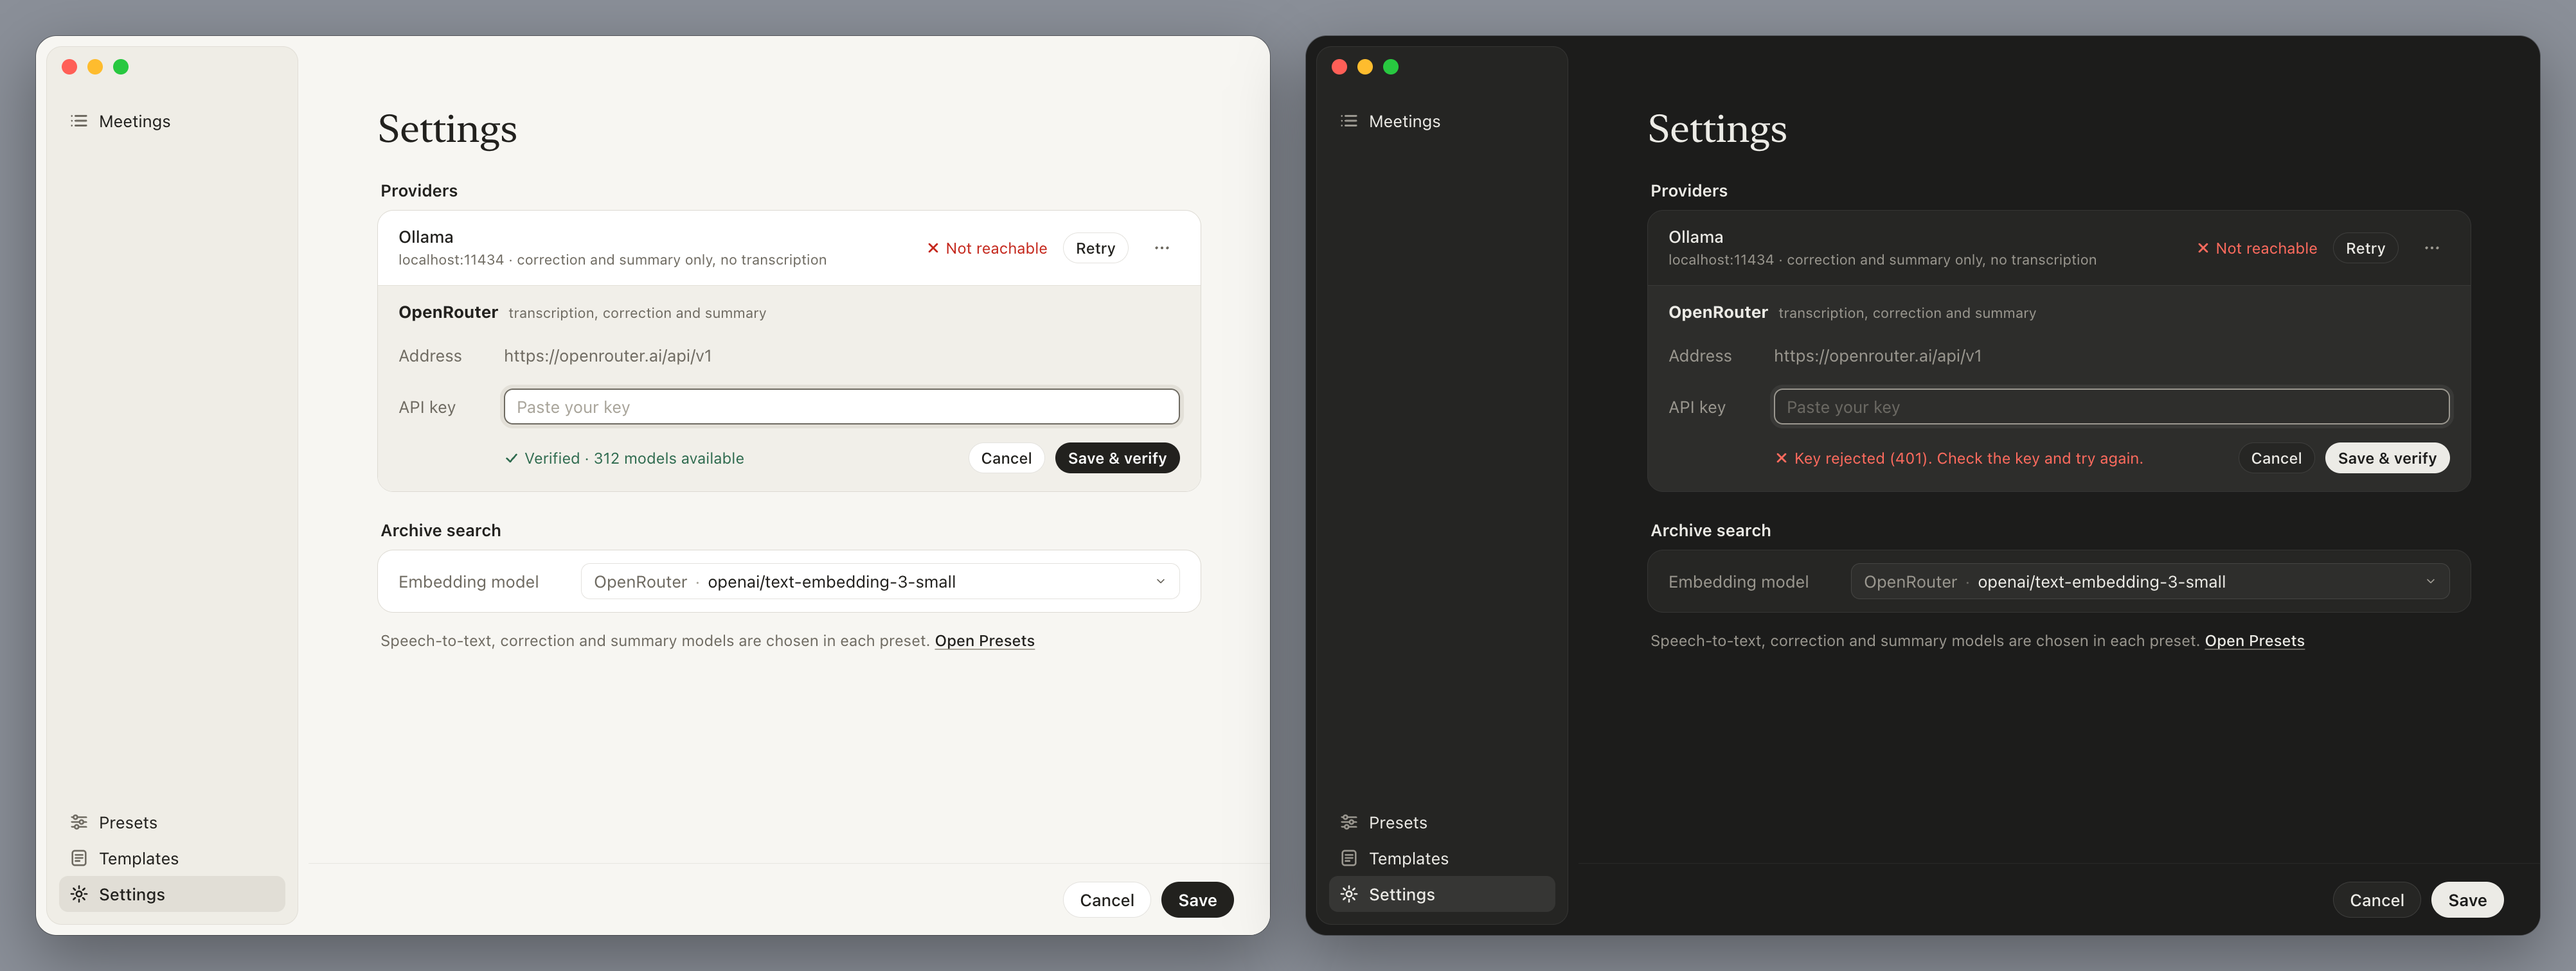
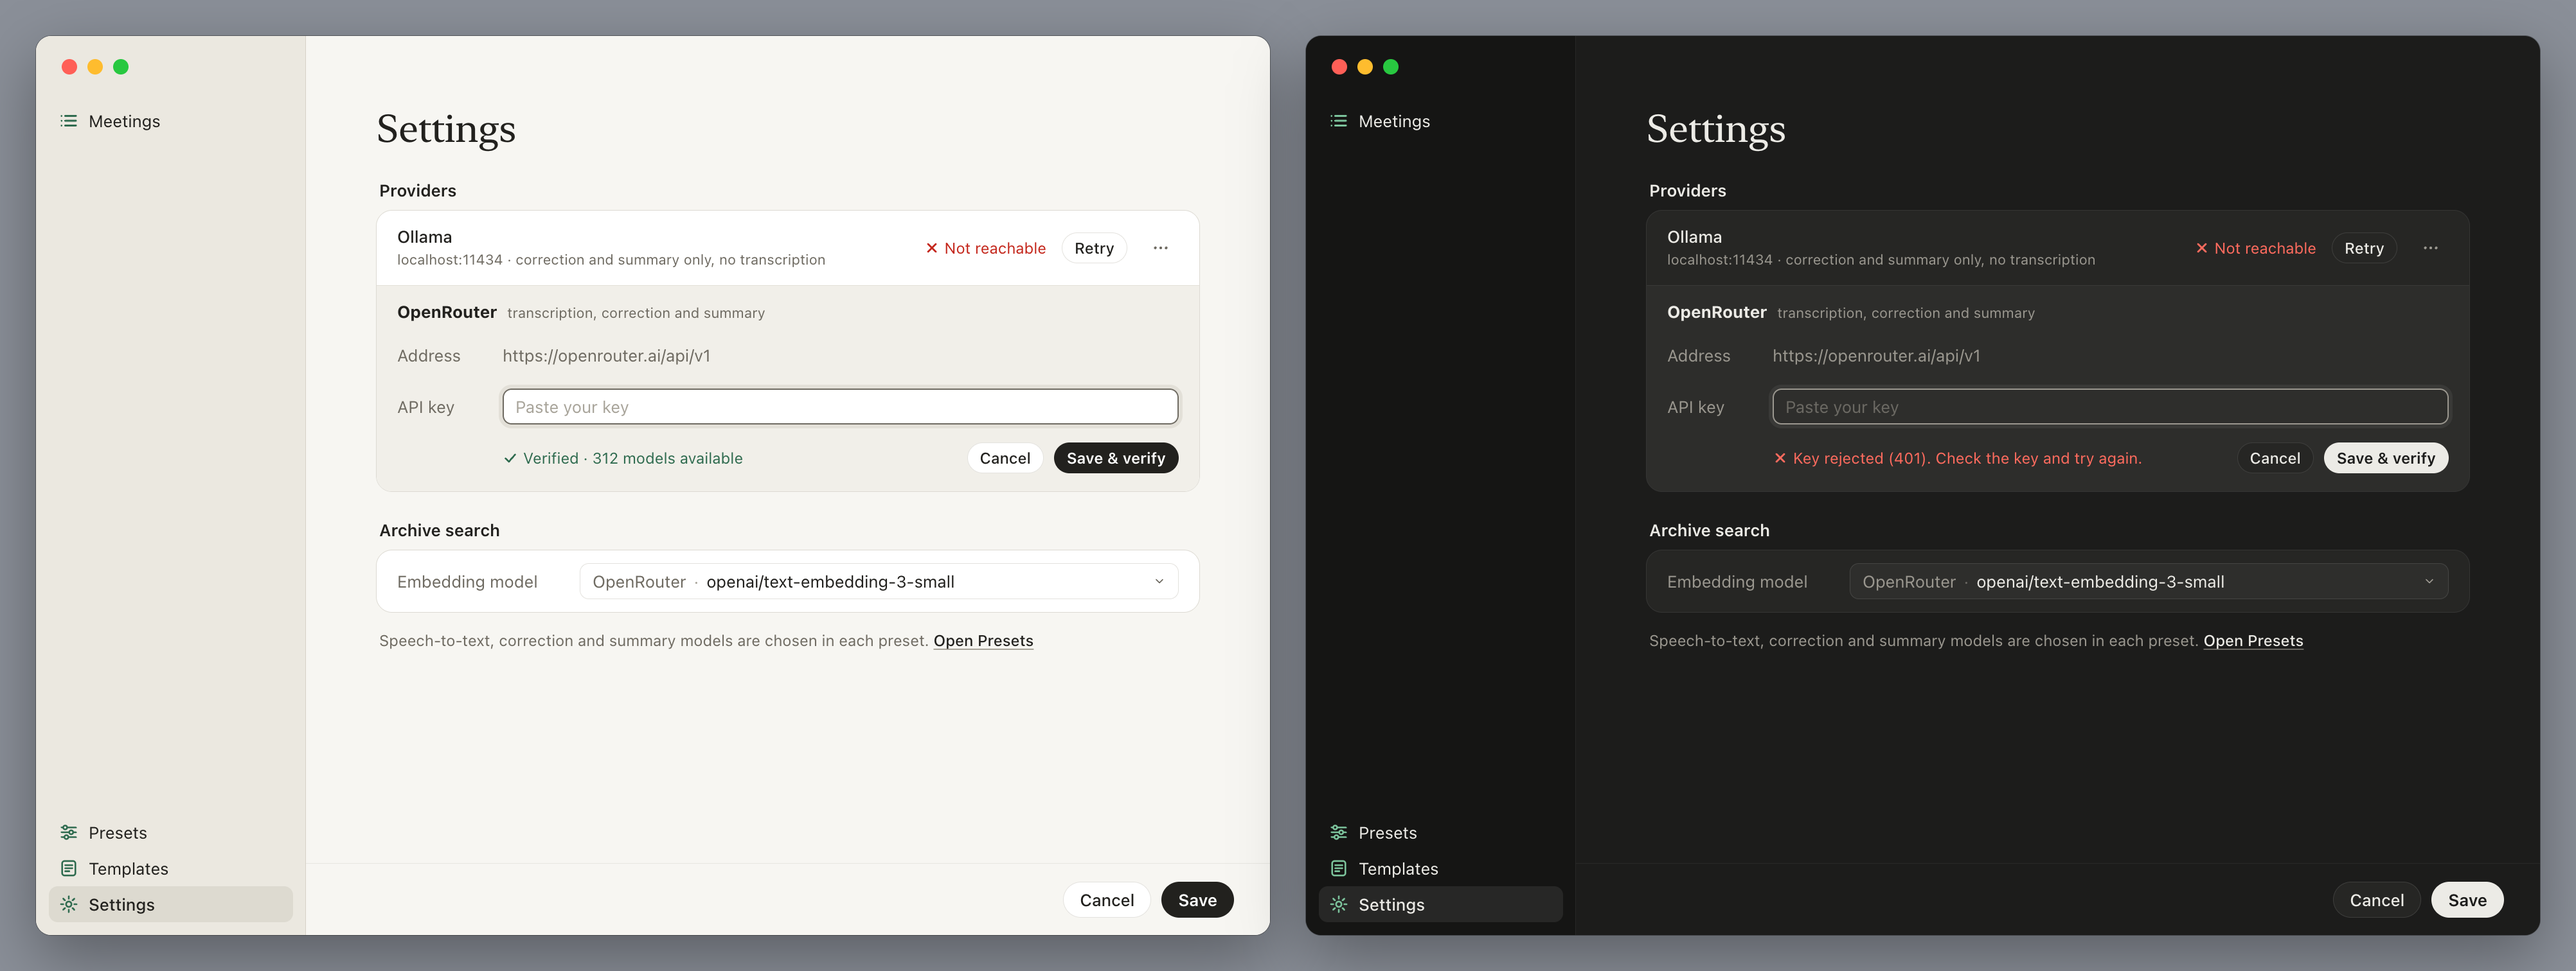
Design §11: makiety B na sidebarze macOS 27 (przy krawędzi), §11.8 research trendów UX macOS/Windows 2026–2027

diff --git a/docs/design/makiety/ekrany-b.html b/docs/design/makiety/ekrany-b.html
@@ -12,30 +12,30 @@
 body { font: 13px/16px system-ui; background: #8a8f98; padding: 28px; display: flex; gap: 28px; -webkit-font-smoothing: antialiased; }
 
 /* ---------- tokeny §11 ---------- */
-.light { --bg:#f7f6f2; --side:rgba(238,236,229,.92); --sideEdge:rgba(60,50,20,.08); --sel:rgba(60,50,20,.08);
+.light { --bg:#f7f6f2; --side:#ebe8e0; --sideEdge:rgba(60,50,20,.12); --sel:rgba(60,50,20,.08);
   --card:#ffffff; --sunk:#f1efe9; --line:rgba(60,50,20,.14); --line2:rgba(60,50,20,.08);
   --text:#22211e; --text2:#6f6b62; --text3:#a8a49a; --primary:#22211e; --onPrimary:#ffffff;
   --accent:#2f6b4f; --rec:#c4271c; --warn:#8a5a00; --glass:rgba(250,249,246,.74); --glassEdge:rgba(60,50,20,.16); }
-.dark { --bg:#1c1c1b; --side:rgba(38,38,36,.92); --sideEdge:rgba(255,255,255,.07); --sel:rgba(255,255,255,.08);
+.dark { --bg:#1c1c1b; --side:#151514; --sideEdge:rgba(255,255,255,.08); --sel:rgba(255,255,255,.08);
   --card:#262624; --sunk:#2e2e2c; --line:rgba(255,255,255,.11); --line2:rgba(255,255,255,.06);
   --text:#ecebe6; --text2:#9a978f; --text3:#6b6963; --primary:#ecebe6; --onPrimary:#1c1c1b;
   --accent:#7cc39c; --rec:#ff6b5e; --warn:#e0b050; --glass:rgba(36,36,34,.72); --glassEdge:rgba(255,255,255,.12); }
 
 /* ---------- okno i sidebar (systemowe) ---------- */
-.win { width: 960px; height: 700px; border-radius: 16px; overflow: hidden; position: relative; flex: none;
+.win { width: 960px; height: 700px; border-radius: 12px; overflow: hidden; position: relative; flex: none;
        background: var(--bg); color: var(--text); box-shadow: 0 0 0 .5px rgba(0,0,0,.35), 0 18px 50px rgba(0,0,0,.35); }
 .lights { position: absolute; top: 18px; left: 20px; display: flex; gap: 8px; z-index: 3; }
 .lights i { width: 12px; height: 12px; border-radius: 50%; display: block; }
 .lights i:nth-child(1){background:#ff5f57} .lights i:nth-child(2){background:#febc2e} .lights i:nth-child(3){background:#28c840}
-.side { position: absolute; top: 8px; left: 8px; bottom: 8px; width: 196px; border-radius: 12px; background: var(--side);
-        box-shadow: inset 0 0 0 .5px var(--sideEdge); padding: 44px 10px 10px; display: flex; flex-direction: column; }
+/* macOS 27: sidebar przy krawędzi okna, ciemniejsze tło, kolorowe ikony */
+.side { position: absolute; top: 0; left: 0; bottom: 0; width: 210px; background: var(--side);
+        box-shadow: inset -.5px 0 0 var(--sideEdge); padding: 52px 10px 10px; display: flex; flex-direction: column; }
 .nav { display: flex; align-items: center; gap: 8px; height: 28px; padding: 0 8px; border-radius: 7px; }
 .nav.sel { background: var(--sel); font-weight: 500; }
 .side .spacer { flex: 1; }
 svg { fill: none; stroke: currentColor; stroke-width: 1.4; stroke-linecap: round; stroke-linejoin: round; flex: none; }
-.nav svg { width: 15px; height: 15px; color: var(--text2); }
-.nav.sel svg { color: var(--text); }
-.main { position: absolute; top: 0; left: 212px; right: 0; bottom: 0; overflow: hidden; }
+.nav svg { width: 15px; height: 15px; color: var(--accent); }
+.main { position: absolute; top: 0; left: 210px; right: 0; bottom: 0; overflow: hidden; }
 .col { margin: 0 auto; padding-top: 54px; }
 
 /* ---------- typografia: szeryf tylko w tytułach stron i dokumentów ---------- */
@@ -72,7 +72,7 @@ svg { fill: none; stroke: currentColor; stroke-width: 1.4; stroke-linecap: round
 .form-row label { color: var(--text2); }
 .switch { width: 32px; height: 19px; border-radius: 999px; background: var(--accent); position: relative; flex: none; }
 .switch::after { content:""; position:absolute; top:2px; right:2px; width:15px; height:15px; border-radius:50%; background:#fff; box-shadow:0 1px 2px rgba(0,0,0,.25); }
-.footer { position: absolute; left: 212px; right: 0; bottom: 0; height: 56px; display: flex; align-items: center; justify-content: flex-end; gap: 8px;
+.footer { position: absolute; left: 210px; right: 0; bottom: 0; height: 56px; display: flex; align-items: center; justify-content: flex-end; gap: 8px;
           padding: 0 28px; border-top: .5px solid var(--line2); background: var(--bg); }
 .footer .note { margin-right: auto; color: var(--text2); display: flex; align-items: center; gap: 6px; }
 .icon-btn { width: 28px; height: 28px; border-radius: 999px; display: grid; place-items: center; color: var(--text2); }
@@ -201,7 +201,7 @@ const home = th => win(th,'m', `<div class="main"><div class="col" style="width:
 </div></div>`);
 
 /* ---------------- widok spotkania, Summary ---------------- */
-const meeting = th => win(th,'m', `<div class="toolbar" style="left:224px">
+const meeting = th => win(th,'m', `<div class="toolbar" style="left:222px">
     <div class="pill" style="width:30px;padding:0;justify-content:center">${I.back}</div><div class="sp"></div>
     <div class="icon-btn">${I.more}</div></div>
   <div class="main"><div class="col" style="width:640px">

diff --git a/docs/design/macos.md b/docs/design/macos.md
@@ -299,6 +299,8 @@ Każde nowe odstępstwo dopisuj tutaj, z uzasadnieniem opartym na pomiarze albo 
 > `craft-floor.md`). Makiety jasne i ciemne: `docs/design/makiety/ekrany-b.html`
 > (`?s=home|meeting|presets|settings|add|pill`), wyrenderowane do `b-*.png` w skali 2×,
 > gdzie 1 px = 1 pt. Kierunki odrzucone: `kierunek-a.png`, `kierunek-c.png`.
+> Makiety B pokazują okno z **macOS 27 „Golden Gate”** (sidebar przy krawędzi okna,
+> bardziej kwadratowe rogi). Makiety kierunków mają jeszcze pływający sidebar z macOS 26.
 
 **Zasada:** system wizualny daje aplikacji paletę, typografię, gęstość i jeden charakterystyczny
 ruch: ciepłe tło z białymi kartami i tytuły w New York. Nie zmienia nawigacji ani kontrolek.
@@ -338,8 +340,10 @@ występuje w UI, ale pomiar na nim jest najgorszym przypadkiem. Każdą nową pa
 dają natywne `TextField` i `.searchable`, a nie `text3`. `text3` ma tylko 2,3–3,1:1, więc nadaje się wyłącznie
 dla stanu nieaktywnego. Na makietach placeholdery są w `text3` tylko poglądowo.
 
-- Sidebar **nie dostaje** koloru `background`, tylko systemowy materiał. Na makiecie jest
-  ciepły, bo materiał przepuszcza tło okna.
+- Sidebar **nie dostaje** koloru `background`, tylko systemowy materiał. W macOS 27 sidebar
+  sięga krawędzi okna, ma tło ciemniejsze niż treść i kolorowe ikony. Na makiecie
+  (`#EBE8E0` / `#151514`, ikony w `accent`) to przybliżenie: ⚠ odcień i kolor ikon wybiera
+  system (`tint` aplikacji albo akcent użytkownika), sprawdzić w migawkach T0.
 - 📐 **Increase Contrast**: provider powinien zwracać ciemniejsze `text2` i `line` przy
   `.accessibilityHighContrastAqua`. Do sprawdzenia w migawkach T0.
 - Czerwień nagrywania i błędu różni się od akcentu (zieleń), więc nie ma kolizji znaczeń.
@@ -369,7 +373,8 @@ dla stanu nieaktywnego. Na makietach placeholdery są w `text3` tylko poglądowo
   i Settings 640 pt, Presets 700 pt (lista 196 + edytor). Górny margines 54 pt, bo pod
   paskiem tytułu.
 - **Promienie:** karta 12, pole tekstowe i popup 7, zaznaczenie w liście 8, panel
-  pigułki 20. Przyciski i pigułka nagrywania to pełna kapsuła.
+  pigułki 20. Przyciski i pigułka nagrywania to pełna kapsuła. Rogi okna rysuje system
+  (w macOS 27 jednakowe dla wszystkich aplikacji); karta 12 ma ich nie przekraczać.
 - **Głębia:** w treści tylko obwódka 0,5 pt (`line`), **bez cieni**. Cień i materiał ma tylko
   pływająca pigułka (Liquid Glass, §6.2). Zakaz łączenia obwódki z szerokim cieniem.
 - **Wiersze:** wiersz listy spotkań ma 9 pt w pionie i separator `line2`, wiersz formularza
@@ -442,6 +447,82 @@ Te elementy były w pierwszej wersji makiet i zostały usunięte:
 Migawki T0 (§9) przed i po, w obu motywach, porównane z `b-*.png`. Kontrast nowych par
 mierzony liczbowo, nie na oko. Pełna obsługa klawiaturą (Tab przez pigułki, fokus widoczny).
 Odbiór na żywo u użytkownika.
+
+### 11.8 Kontekst: trendy UX na macOS i Windows (research 2026-10-15)
+
+Po co: sprawdzić, czy kierunek B nie zestarzeje się zaraz po wdrożeniu. Źródła są na końcu.
+Pewność oznaczona: **mocne** (ogłoszenie producenta, recenzja wydanej wersji), **średnie**
+(relacja z drugiej ręki, analizy systemów designu), **słabe** (listy trendów agencji).
+
+**Teraz (2026)**
+
+- **macOS 27 „Golden Gate” (wydany 09.2026) koryguje Tahoe — mocne.**
+  - Liquid Glass ma bardziej jednolitą refrakcję i lepszy kontrast. W Ustawieniach → Wygląd
+    jest suwak przezroczystości („ultra-clear” → „fully tinted”).
+  - Sidebar wraca do krawędzi okna, z ciemniejszym tłem i kolorowymi ikonami.
+  - Paski narzędzi znów są paskami, a nie pływającymi przyciskami.
+  - Rogi okien są jednakowe we wszystkich aplikacjach.
+  - Z pozycji menu zniknęła większość ikon.
+  - Kierunek Apple: szkło zostaje, ale spokojniejsze i regulowane przez użytkownika.
+- **Liquid Glass jest na stałe — średnie.** Według relacji z rozmów w Apple Xcode 27 nie
+  będzie respektował flagi odraczającej szkło, a od I kw. 2027 ma być włączone wszędzie.
+  My budujemy na CLT, więc dostajemy wygląd tego SDK, którym kompilujemy.
+- **Windows trzyma się Fluent 2 i WinUI 3 — mocne.** Na Build 2026 Microsoft ogłosił, że
+  nie będzie nowego frameworka ani języka wizualnego. Starsze dialogi w powłoce są wymieniane na
+  WinUI (Mica, Acrylic, zaokrąglone rogi, tryb ciemny), a rozwój toczy się publicznie na
+  GitHubie. Tło: krytyka aplikacji na WebView2/Electron za zużycie pamięci.
+- **Natywne aplikacje Maca nadal przeważają — średnie.** W próbce 2440 aplikacji (III 2026)
+  70,8% jest natywnych, a 19,3% to Electron. Głośna jest krytyka Electronu za pamięć i baterię.
+- **Ciepły minimalizm w narzędziach do notatek — średnie.** Notion, inne narzędzie i Craft mają
+  kremowe lub ciepłe tło, szeryfowe tytuły i tekst w sansie, zamiast zimnych szarości. To dokładnie
+  kierunek B.
+- **Spokojniejsze interfejsy narzędzi — mocne (Linear).** Refresh Lineara z 2026 przygasza
+  sidebar, żeby wyróżnić treść, ogranicza ikony, zmiękcza separatory i ujednolica nagłówki,
+  zachowując gęstość informacji. To ta sama linia co test „slop” w §11.6.
+- **AI w miejscu pracy zamiast czatu z boku — słabe/średnie.** Wynik AI pojawia się tam, gdzie
+  się pracuje. Ważne są: widoczne źródło (który model, z czego powstało), kontrola człowieka,
+  wznowienie przy błędzie i jawne stany oczekiwania.
+
+**Za rok (2027) — niska pewność**
+
+- Apple dalej łagodzi szkło i oddaje kontrolę użytkownikowi. Szkło nie znika.
+- Windows wymienia kolejne dialogi na WinUI. Wielkie aplikacje webowe (Teams, Outlook) mogą
+  zostać przy WebView jeszcze długo.
+- O „generatywnym UI” i nawigacji rozmową piszą głównie agencje, twardych danych nie ma.
+- Ciepła typografia redakcyjna raczej zostanie, ale to opinia, nie pomiar.
+
+**Wnioski dla MeetNotes**
+
+1. Kierunek B jest zgodny z tym, co w 2026 robią najlepsze narzędzia do notatek. Test
+   „slop” idzie w tę samą stronę co Linear. Nic do zmiany w palecie ani typografii.
+2. **Sidebar, pasek narzędzi i rogi zostawiamy systemowi** (tak już mówi zasada §11), bo
+   zmieniają się co wersję macOS. Makiety B pokazują już macOS 27.
+3. **Pozycje menu bez ikon** (macOS 27). Dotyczy menu aplikacji i menu kontekstowych.
+4. **Szkło tylko w pigułce i tylko systemowe** (`.glassEffect()`), żeby suwak przezroczystości
+   użytkownika działał też u nas. Żadnego własnego rozmycia.
+5. Notatka już pokazuje źródło (model, szablon, kontekst w pasku generowania). Pomysł do fazy 2:
+   punkty notatki z odnośnikiem do miejsca w transkrypcie, czyli widoczne źródło.
+
+**Źródła**
+
+- MacRumors, „Apple Announces macOS 27 Golden Gate…”, 2026-06-08 —
+  https://www.macrumors.com/2026/06/08/apple-announces-macos-golden-gate/
+- Six Colors, „macOS 27 Golden Gate review”, 2026-09 —
+  https://sixcolors.com/post/2026/09/macos-27-golden-gate-review-bridging-the-tahoe-gap/
+- 9to5Mac, zmiany dla krytyków Tahoe, 2026-06-09 —
+  https://9to5mac.com/2026/06/09/macos-27-golden-gate-includes-these-changes-that-tahoe-critics-will-appreciate/
+- Michael Tsai, „Liquid Glass Is Permanent”, 2026-03-23 —
+  https://mjtsai.com/blog/2026/03/23/liquid-glass-is-permanent
+- Windows Latest, powrót natywnych aplikacji, 2026-08-29 —
+  https://www.windowslatest.com/2026/08/29/windows-11s-native-app-era-is-coming-back-after-years-of-web-app-slop-and-microsoft-is-finally-building-it-in-public/
+- Fluent 2, Windows — https://fluent2.microsoft.design/components/windows
+- Linear, „Behind the latest design refresh” — https://linear.app/now/behind-the-latest-design-refresh
+- Desktop Insights, „State of desktop app development 2026” —
+  https://desktopinsights.com/blog/state-of-desktop-app-development-2026
+- Analizy ciepłego minimalizmu (Notion, Craft): https://getdesign.md/notion/design-md,
+  https://www.webdesignhot.com/design.md/craft/
+- AI UX: https://www.lazarev.agency/articles/ai-ux-patterns,
+  https://aiindigo.com/blog/beyond-the-chatbot-5-ai-native-ux-patterns-for-modern-document-apps
 
 ---
 
